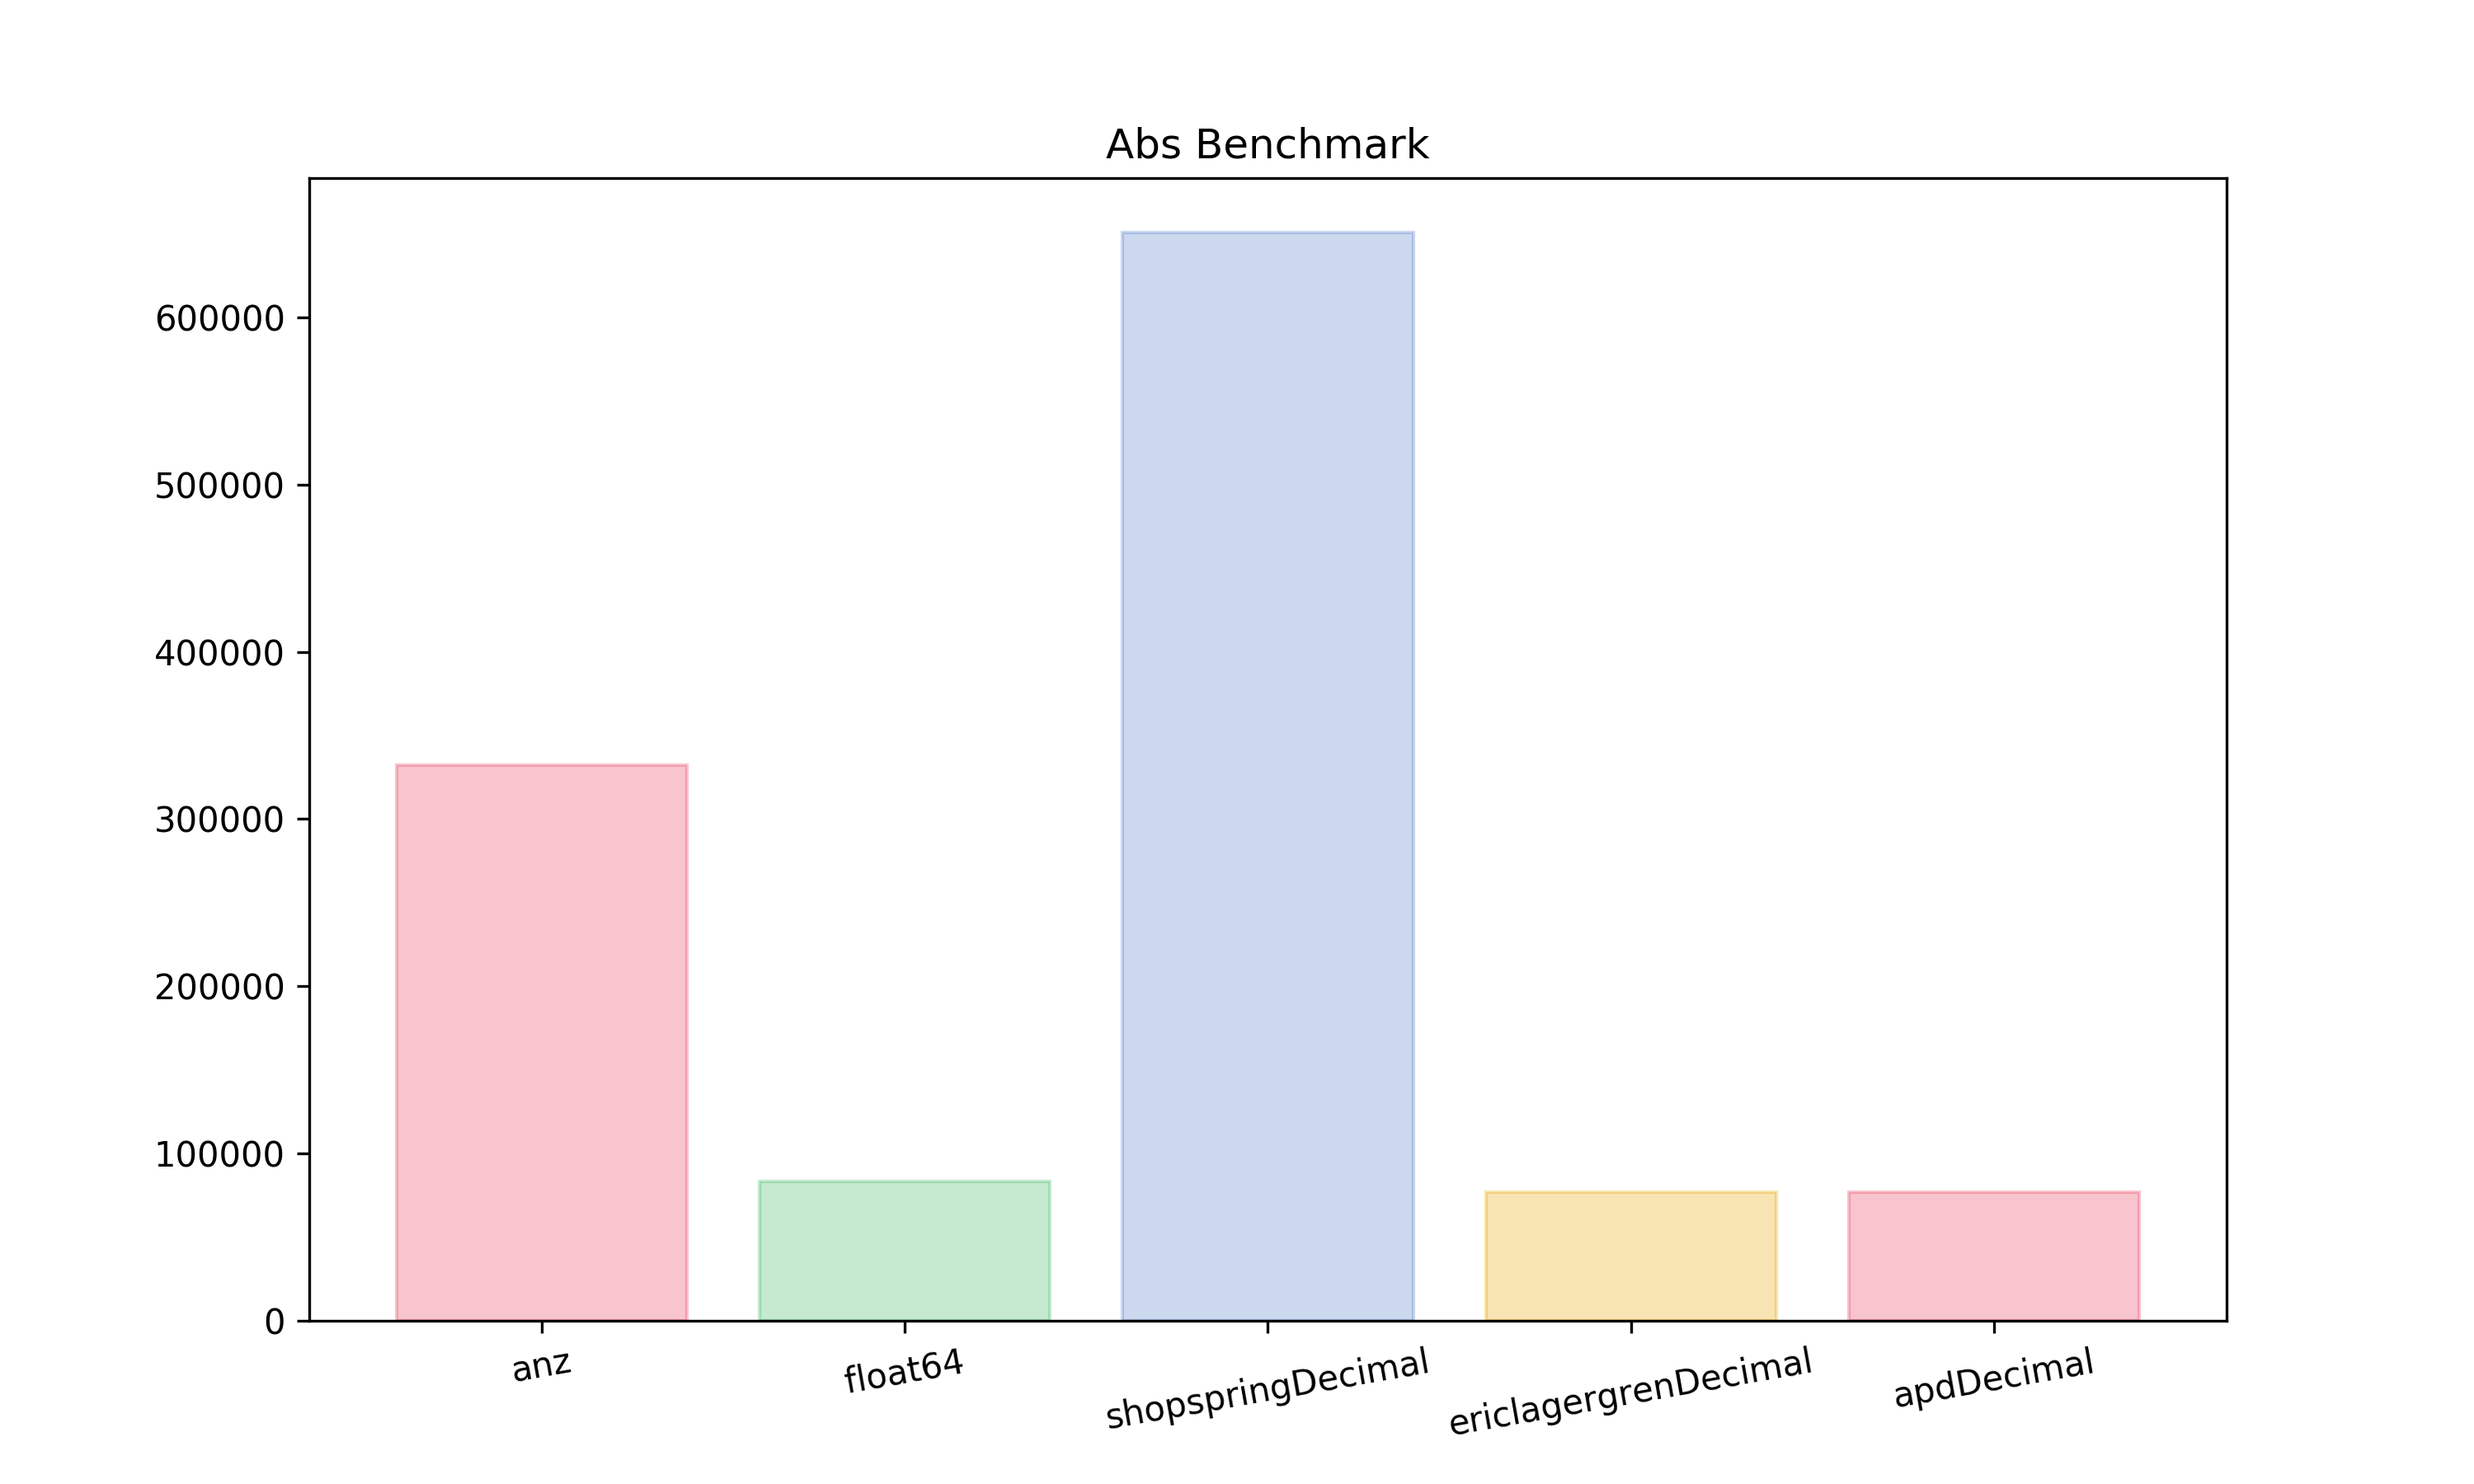
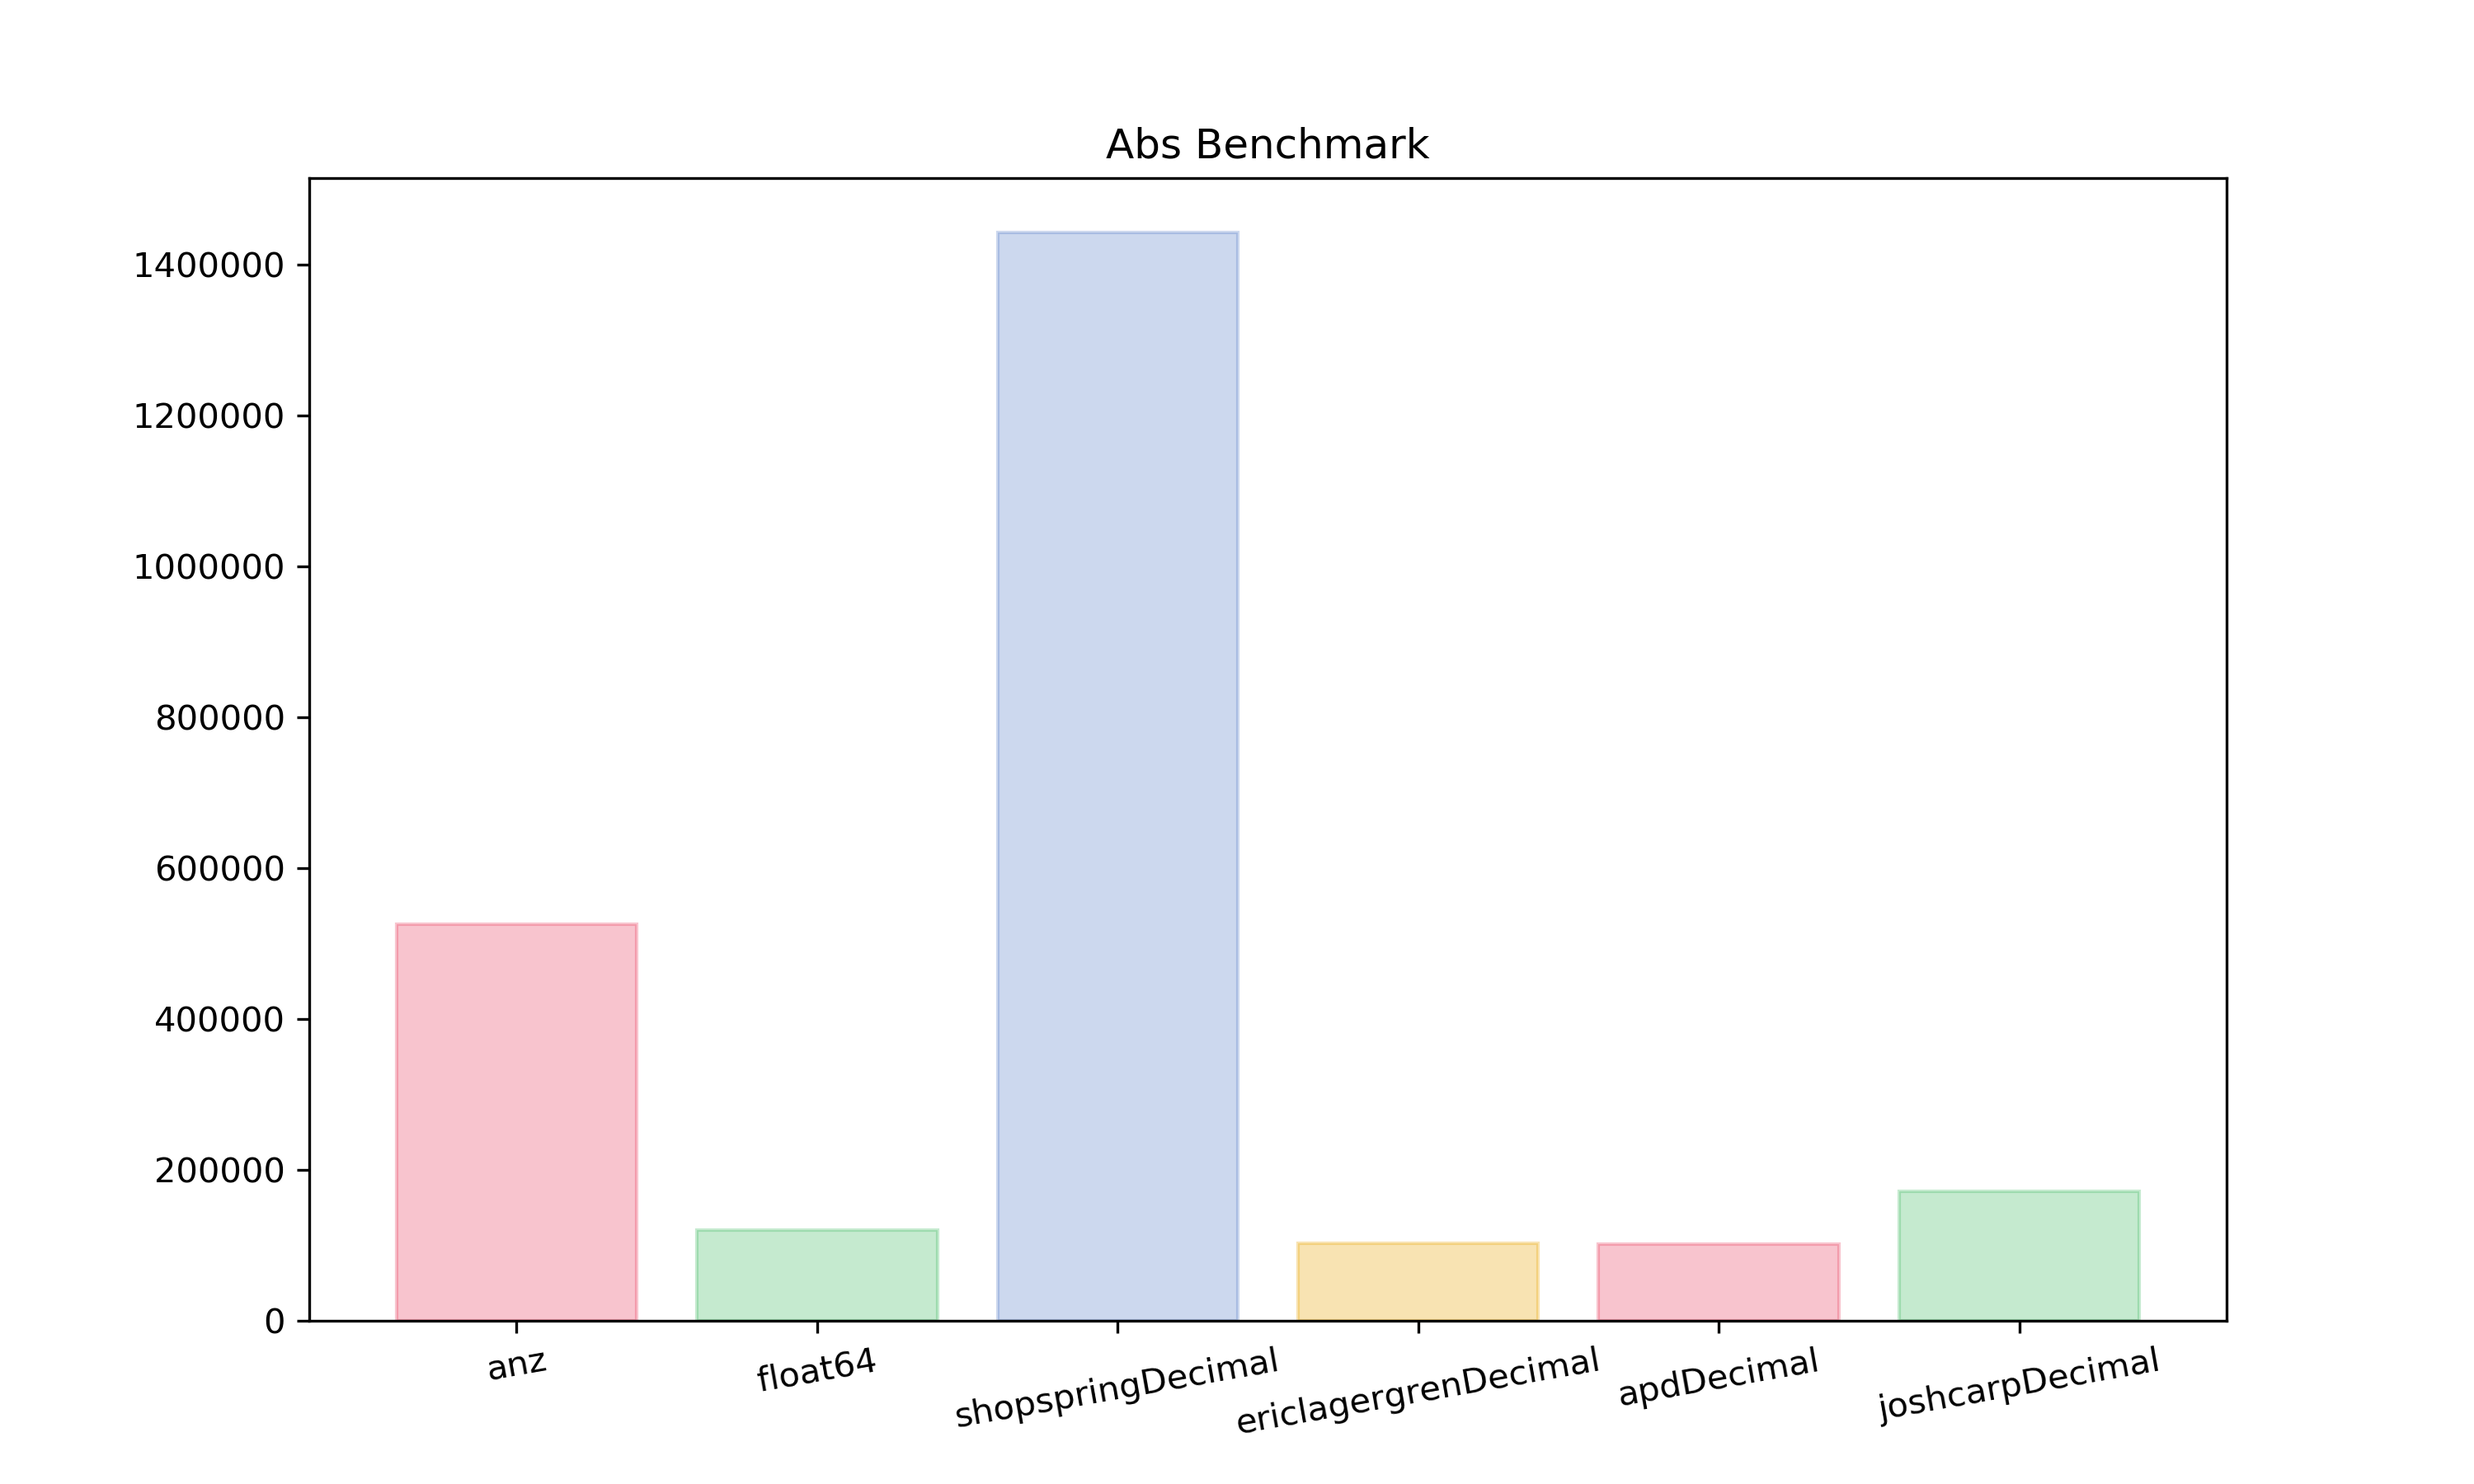
Regenerate images with new non-ieee anz

diff --git a/examples/benchmark/benchmarkSuite_test.go b/examples/benchmark/benchmarkSuite_test.go
@@ -76,6 +76,7 @@ func BenchmarkDecimal(b *testing.B) {
 
 		// Run the arithmetic test of the seperate types
 		for _, t := range typelist {
+			fmt.println
 			b.Run(dectest+"_"+prettyNames[reflect.TypeOf(t).String()], func(b *testing.B) {
 				// Run tests 500 times
 				for j := 0; j < b.N; j++ {
